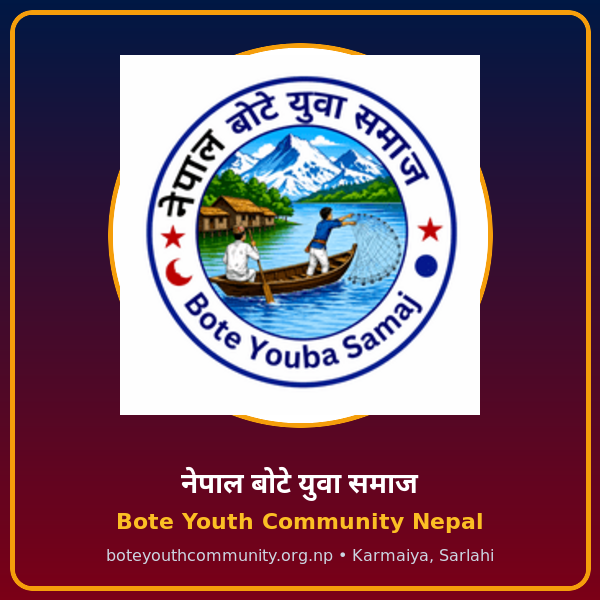
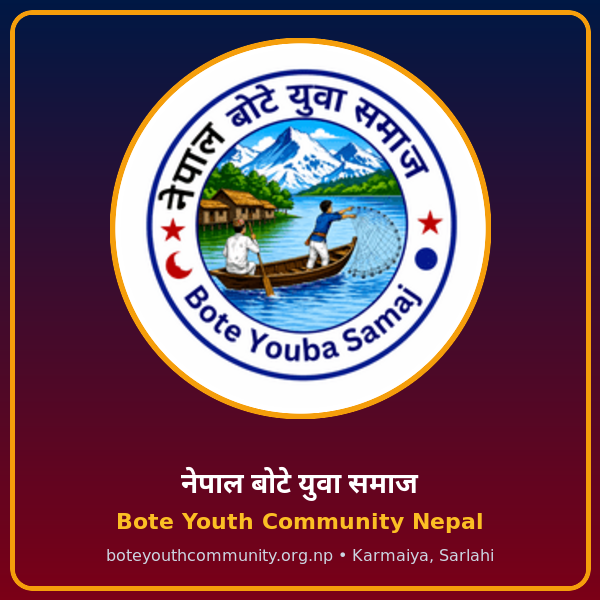
chore: update social metadata and asset generation
Refine Open Graph meta tags for better social sharing, update the OG image generation script to improve emblem clarity, and ensure all social assets are synchronized to the production build directory.

Changed region(s): [[0.18, 0.06, 0.84, 0.72]]

diff --git a/index.html b/index.html
@@ -14,16 +14,22 @@
     <meta name="publisher" content="Bote Youth Community Nepal" />
     <meta name="geo.region" content="NP" />
     <meta name="geo.placename" content="Nepal" />
-    <meta property="og:title" content="BoteYouthCommunityNepal" />
-    <meta property="og:description" content="Official platform and website theme for Bote Youth Community Nepal. Celebrating Bote culture, history, language, traditional dress, youth empowerment, and scholarships with authentic Nepali Flag (Red, White, Blue) themes." />
+    <meta property="og:title" content="नेपाल बोटे युवा समाज - Bote Youth Community Nepal" />
+    <meta property="og:description" content="Official platform of Bote Youth Community Nepal. Celebrating Bote indigenous heritage, culture, history, language, traditional dress, and youth empowerment." />
     <meta property="og:type" content="website" />
     <meta property="og:url" content="https://boteyouthcommunity.org.np/" />
     <meta property="og:site_name" content="Bote Youth Community Nepal" />
-    <meta property="og:image" id="bycn-og-image" content="/uploads/header_logo_1789693983380_aok4s.png" />
+    <meta property="og:image" id="bycn-og-image" content="https://boteyouthcommunity.org.np/og-image.png" />
+    <meta property="og:image:secure_url" content="https://boteyouthcommunity.org.np/og-image.png" />
+    <meta property="og:image:type" content="image/png" />
+    <meta property="og:image:width" content="1200" />
+    <meta property="og:image:height" content="630" />
+    <meta property="og:image:alt" content="नेपाल बोटे युवा समाज (Bote Youth Community Nepal) Official Emblem" />
     <meta name="twitter:card" content="summary_large_image" />
-    <meta name="twitter:title" content="BoteYouthCommunityNepal" />
-    <meta name="twitter:description" content="Official platform and website theme for Bote Youth Community Nepal. Celebrating Bote culture, history, language, traditional dress, youth empowerment, and scholarships with authentic Nepali Flag (Red, White, Blue) themes." />
-    <meta name="twitter:image" id="bycn-twitter-image" content="/uploads/header_logo_1789693983380_aok4s.png" />
+    <meta name="twitter:title" content="नेपाल बोटे युवा समाज - Bote Youth Community Nepal" />
+    <meta name="twitter:description" content="Official platform of Bote Youth Community Nepal. Celebrating Bote indigenous heritage, culture, history, language, traditional dress, and youth empowerment." />
+    <meta name="twitter:image" id="bycn-twitter-image" content="https://boteyouthcommunity.org.np/og-image.png" />
+    <meta name="twitter:image:alt" content="Bote Youth Community Nepal Official Emblem" />
     <meta name="theme-color" content="#DC143C" />
     <link id="bycn-favicon" rel="icon" type="image/svg+xml" href="/favicon.svg" />
     <link id="bycn-shortcut-favicon" rel="shortcut icon" href="/favicon.ico" />

diff --git a/server.ts b/server.ts
@@ -119,6 +119,30 @@ app.get(['/favicon.ico', '/favicon.png', '/favicon.svg'], (req, res) => {
   res.status(204).end();
 });
 
+// Dedicated OpenGraph and Social Share Card endpoints for Facebook, WhatsApp, Twitter, Telegram, etc.
+app.get(['/og-image.png', '/og-image-square.png', '/bycn-logo.png', '/logo.png'], (req, res) => {
+  const reqName = req.path.replace(/^\//, '');
+  const publicPath = path.join(process.cwd(), 'public', reqName);
+  const distPath = path.join(process.cwd(), 'dist', reqName);
+
+  if (fs.existsSync(publicPath)) {
+    res.setHeader('Content-Type', 'image/png');
+    res.setHeader('Cache-Control', 'public, max-age=86400');
+    return res.sendFile(publicPath);
+  }
+  if (fs.existsSync(distPath)) {
+    res.setHeader('Content-Type', 'image/png');
+    res.setHeader('Cache-Control', 'public, max-age=86400');
+    return res.sendFile(distPath);
+  }
+  const headerLogoPath = path.join(PUBLIC_UPLOADS_DIR, 'header_logo_1789693984575_mmutt.png');
+  if (fs.existsSync(headerLogoPath)) {
+    res.setHeader('Content-Type', 'image/png');
+    return res.sendFile(headerLogoPath);
+  }
+  res.status(404).send('Social image not found');
+});
+
 // Google Search Console dynamic verification HTML file (only active if configured by admin or physical file exists)
 app.get('/google:code([a-zA-Z0-9_-]+).html', (req, res) => {
   const reqCode = req.params.code;
